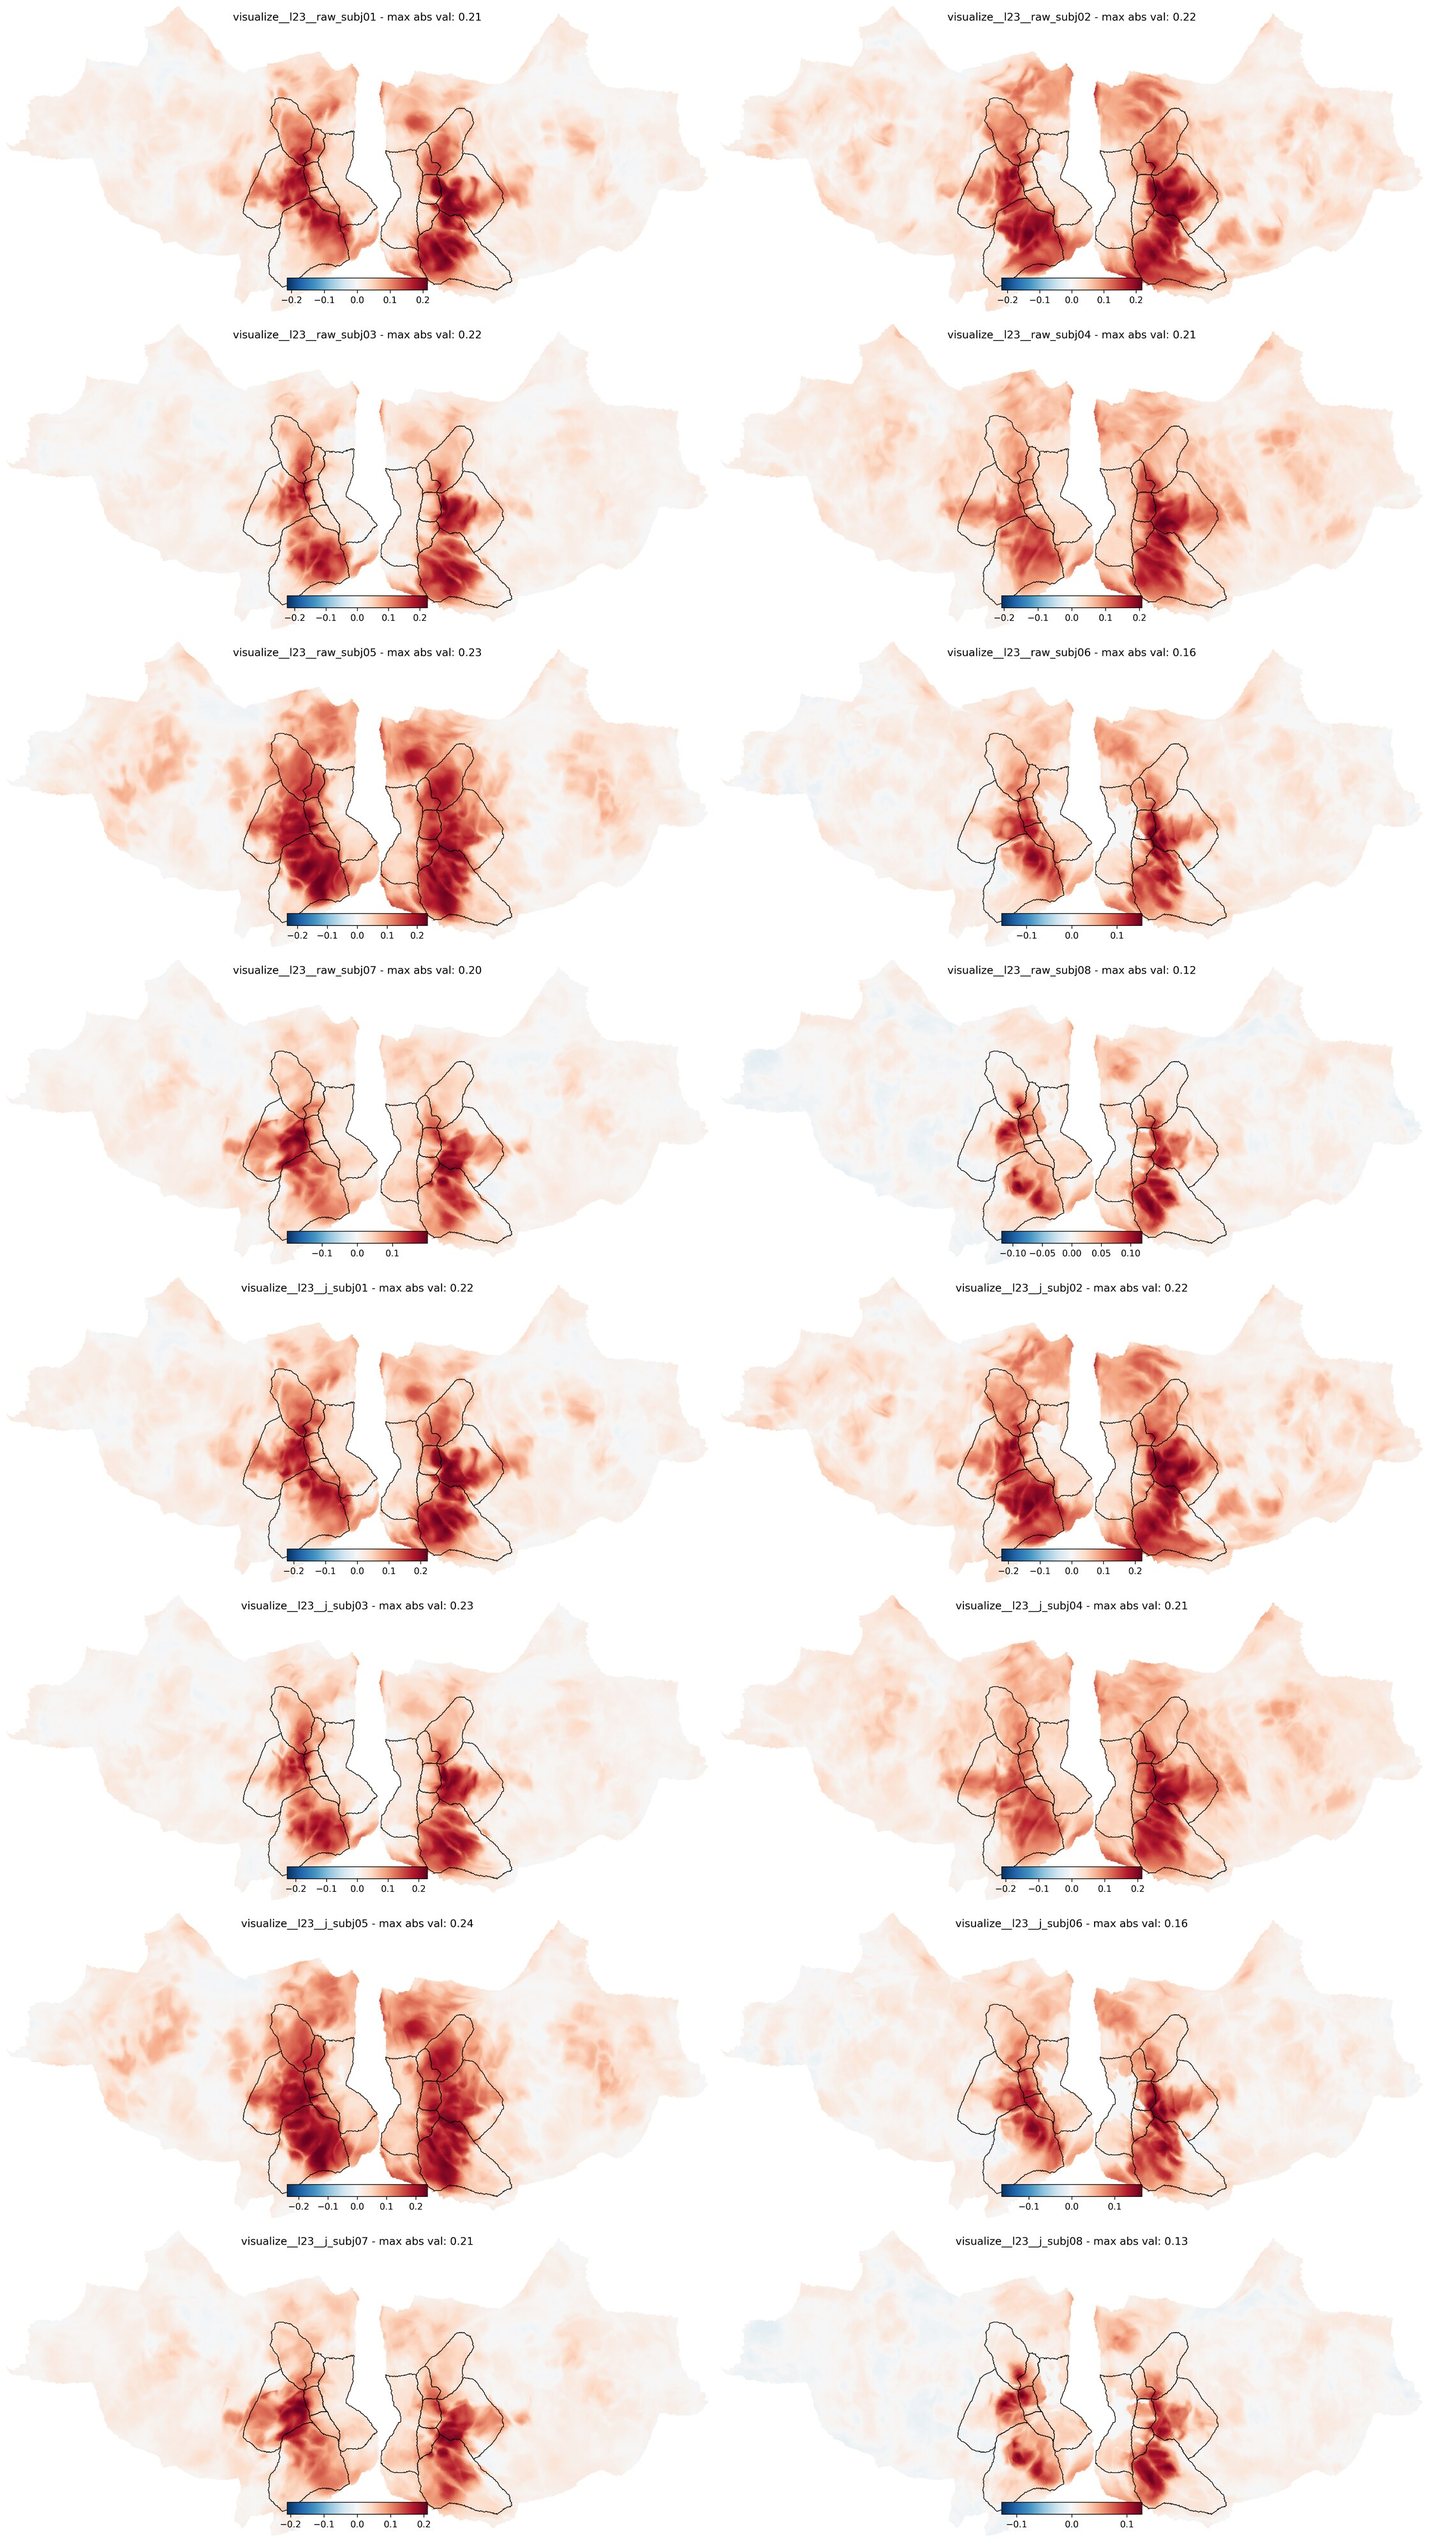
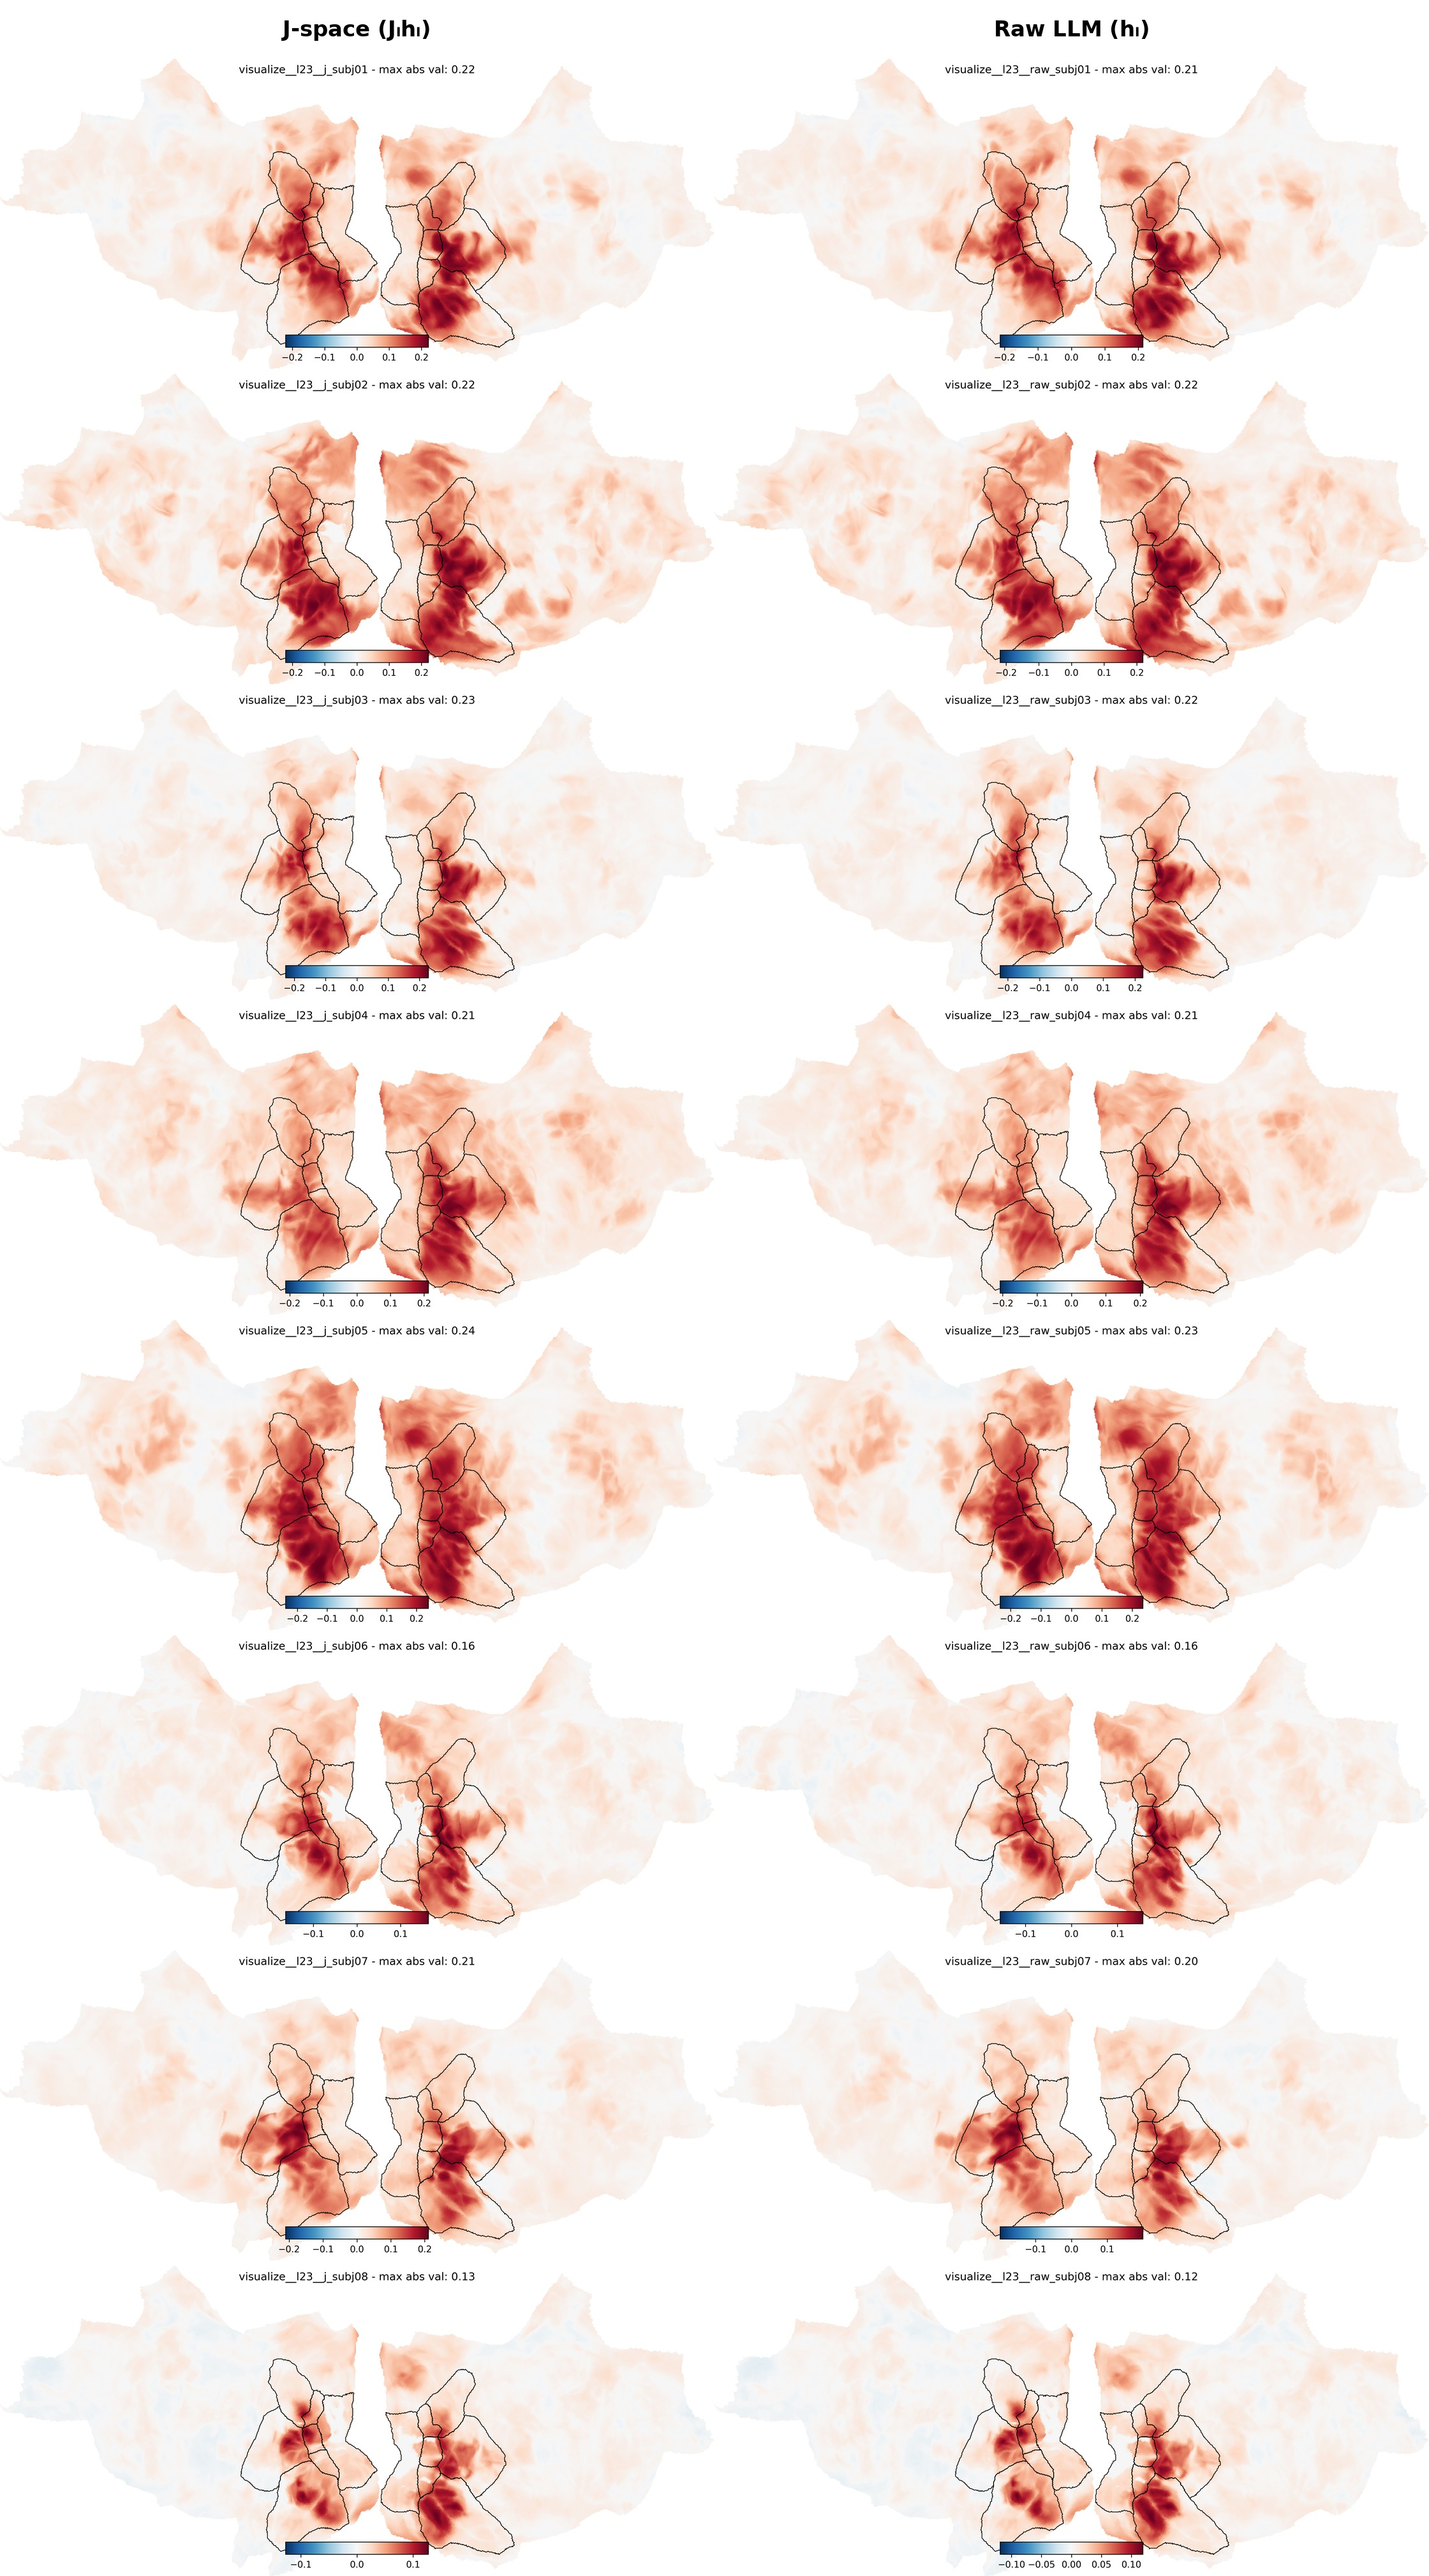
Pair J-space and raw brain maps by subject

diff --git a/README.md b/README.md
@@ -23,16 +23,16 @@ not visual inspection alone.
 
 ![Raw and Jacobian-transported layer-23 NSD searchlight maps](docs/assets/visualize_layer23_raw_then_j_all_subjects.jpg)
 
-*Figure 1. Raw versus J-space brain alignment at Qwen3.5-4B layer 23 under the
-`visualize` prompt condition. The upper four rows show raw (non-J-space)
-residuals and the lower four rows show Jacobian-transported residuals; within
-each block, subjects 1–8 are ordered row-wise from left to right. Each cortical
-map is the subject-level mean over eight matched 100-stimulus samples, projected
-to `fsaverage`, with stream-ROI contours overlaid. Color encodes searchlight RSA
-correlation (Pearson r between the brain and model correlation-distance RDMs).
-Panels use independent symmetric color limits, reported by the maximum absolute
-value in each title. These maps are descriptive and do not by themselves test
-whether either representation is better.*
+*Figure 1. J-space versus raw LLM brain alignment at Qwen3.5-4B layer 23 under
+the `visualize` prompt condition. Each row is one subject (1–8): the left column
+shows the Jacobian-transported residual and the right column shows its matched
+raw residual. Each cortical map is the subject-level mean over eight matched
+100-stimulus samples, projected to `fsaverage`, with stream-ROI contours
+overlaid. Color encodes searchlight RSA correlation (Pearson r between the brain
+and model correlation-distance RDMs). Panels use independent symmetric color
+limits, reported by the maximum absolute value in each title. These maps are
+descriptive and do not by themselves test whether either representation is
+better.*
 
 ## Methodology
 
